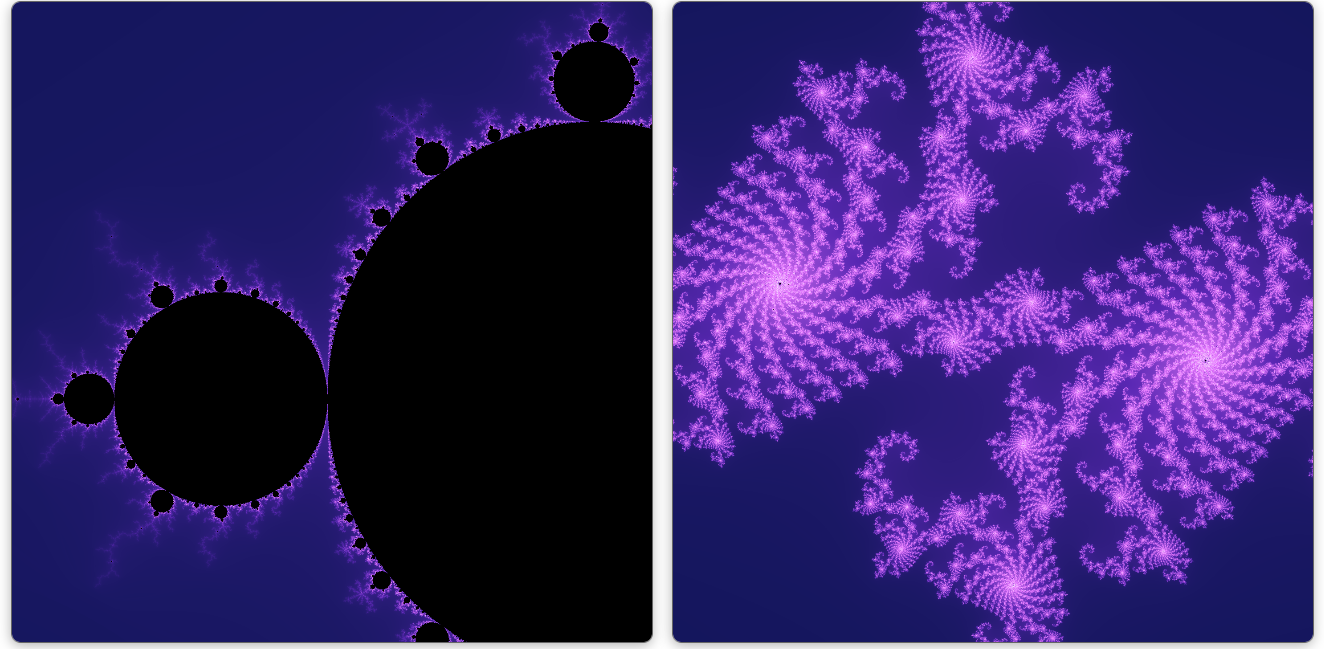
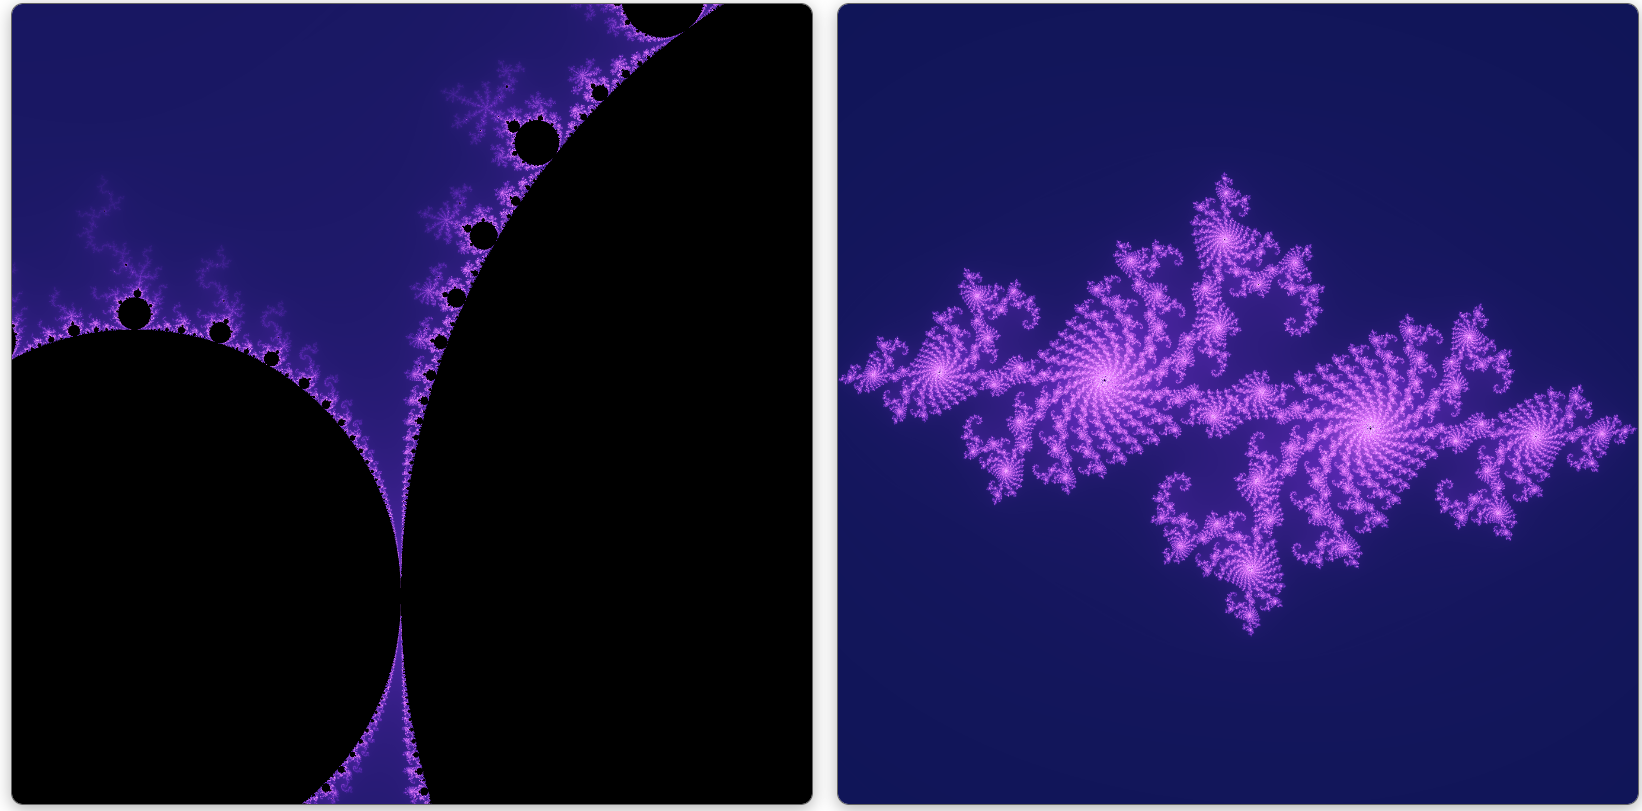
Update README

diff --git a/README.md b/README.md
@@ -74,7 +74,7 @@ Re(z) = -0.74
 Im(z) = 0.18
 
 Scale
-2×
+4×
 ```
 
 ### Julia Set
@@ -88,7 +88,7 @@ Re(z) = 0.00
 Im(z) = 0.00
 
 Scale
-2×
+1×
 ```
 
 ### Favorite Region 2
